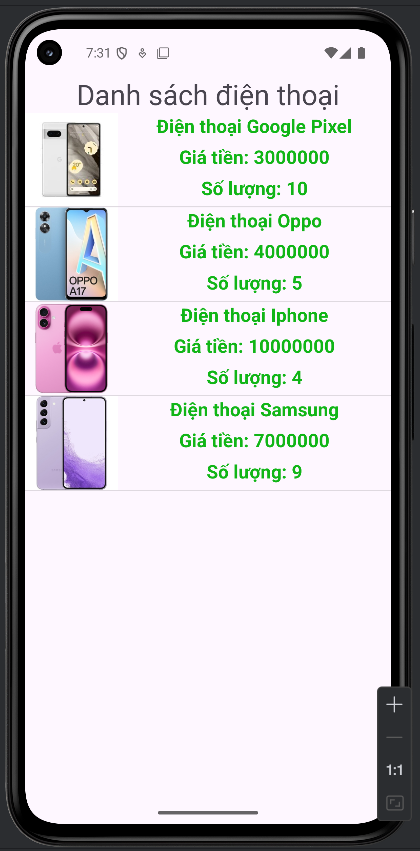
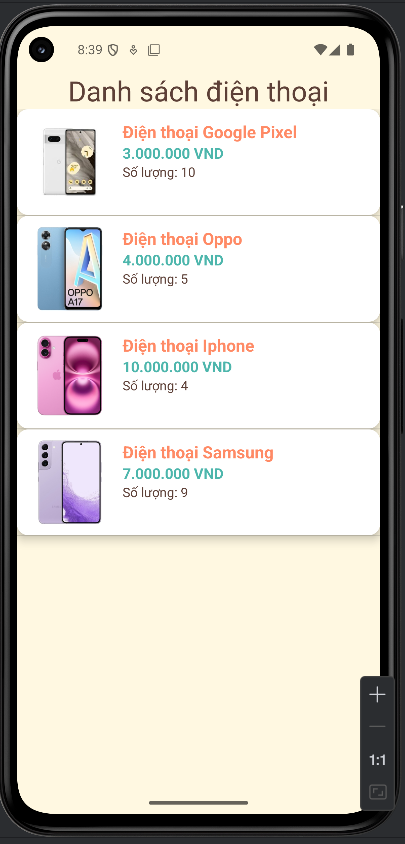
Hoàn thành lv nâng cao

diff --git a/LT9_LVNangCao/app/src/main/java/com/example/lt9_lvnangcao/MainActivity.java b/LT9_LVNangCao/app/src/main/java/com/example/lt9_lvnangcao/MainActivity.java
@@ -1,6 +1,9 @@
 package com.example.lt9_lvnangcao;
 
+import android.content.Intent;
 import android.os.Bundle;
+import android.view.View;
+import android.widget.AdapterView;
 import android.widget.ListView;
 
 import androidx.activity.EdgeToEdge;
@@ -9,7 +12,9 @@ import androidx.core.graphics.Insets;
 import androidx.core.view.ViewCompat;
 import androidx.core.view.WindowInsetsCompat;
 
+import java.text.NumberFormat;
 import java.util.ArrayList;
+import java.util.Locale;
 
 public class MainActivity extends AppCompatActivity {
     int img[] = {R.drawable.googlepixel, R.drawable.oppo, R.drawable.iphone,R.drawable.samsung};
@@ -36,11 +41,29 @@ public class MainActivity extends AppCompatActivity {
         //Ép 4 mảng con vào 1 mảng chính
         for (int i = 0 ; i < name.length; i++)
         {
+            String formattedPrice = formatCurrency(price[i]);
             //Thêm phần tử vào mảng dựa trên các phần tử trong mảng con
             list.add(new Phone(img[i], name[i], price[i], quantity[i]));
         }
         //Tạo mới adapter bằng cách đưa các tham số lần lượt: activity -> layout -> list data
         myArrayAdapter = new MyArrayAdapter(MainActivity.this,R.layout.item_layout,list);
         lv.setAdapter(myArrayAdapter);
+        lv.setOnItemClickListener(new AdapterView.OnItemClickListener() {
+            @Override
+            public void onItemClick(AdapterView<?> adapterView, View view, int i, long l) {
+                Intent iItem = new Intent(MainActivity.this, SubActivity.class);
+                iItem.putExtra("name",name[i]);
+                iItem.putExtra("img",img[i]);
+                iItem.putExtra("price",price[i]);
+                iItem.putExtra("quantity",quantity[i]);
+                startActivity(iItem);
+            }
+        });
     }
+
+    public static String formatCurrency(int amount) {
+        NumberFormat formatter = NumberFormat.getInstance(new Locale("vi", "VN"));
+        return formatter.format(amount) + " VND";
+    }
+
 }

diff --git a/LT9_LVNangCao/app/src/main/java/com/example/lt9_lvnangcao/SubActivity.java b/LT9_LVNangCao/app/src/main/java/com/example/lt9_lvnangcao/SubActivity.java
@@ -1,6 +1,9 @@
 package com.example.lt9_lvnangcao;
 
+import android.content.Intent;
 import android.os.Bundle;
+import android.widget.ImageView;
+import android.widget.TextView;
 
 import androidx.activity.EdgeToEdge;
 import androidx.appcompat.app.AppCompatActivity;
@@ -8,8 +11,12 @@ import androidx.core.graphics.Insets;
 import androidx.core.view.ViewCompat;
 import androidx.core.view.WindowInsetsCompat;
 
-public class SubActivity extends AppCompatActivity {
+import java.text.NumberFormat;
+import java.util.Locale;
 
+public class SubActivity extends AppCompatActivity {
+    TextView txtTen, txtSubPrice, txtSubQuantity;
+    ImageView imgSubPhone;
     @Override
     protected void onCreate(Bundle savedInstanceState) {
         super.onCreate(savedInstanceState);
@@ -20,5 +27,34 @@ public class SubActivity extends AppCompatActivity {
             v.setPadding(systemBars.left, systemBars.top, systemBars.right, systemBars.bottom);
             return insets;
         });
+        TimView();
+        Intent myItent = getIntent();
+        String name = myItent.getStringExtra("name");
+        txtTen.setText(name);
+        int img = myItent.getIntExtra("img",99);
+        imgSubPhone.setImageResource(img);
+        int price = myItent.getIntExtra("price",99);
+        String formattedPrice = formatCurrency(price);
+        txtSubPrice.setText("Giá: "+ formattedPrice);
+        int quantity = myItent.getIntExtra("quantity",99);
+        txtSubQuantity.setText("Số lượng: "+ quantity);
+
+
     }
+
+    void TimView()
+    {
+        txtTen = findViewById(R.id.txtTen);
+        txtSubPrice = findViewById(R.id.txtSubPrice);
+        txtSubQuantity = findViewById(R.id.txtSubQuantity);
+        imgSubPhone = findViewById(R.id.imgSubPhone);
+
+    }
+
+    public static String formatCurrency(int amount) {
+        NumberFormat formatter = NumberFormat.getInstance(new Locale("vi", "VN"));
+        return formatter.format(amount) + " VND";
+    }
+
+
 }

diff --git a/LT9_LVNangCao/app/src/main/java/com/example/lt9_lvnangcao/MyArrayAdapter.java b/LT9_LVNangCao/app/src/main/java/com/example/lt9_lvnangcao/MyArrayAdapter.java
@@ -12,8 +12,10 @@ import android.widget.TextView;
 import androidx.annotation.NonNull;
 import androidx.annotation.Nullable;
 
+import java.text.NumberFormat;
 import java.util.ArrayList;
 import java.util.List;
+import java.util.Locale;
 
 public class MyArrayAdapter extends ArrayAdapter<Phone> {
     Activity context;
@@ -47,9 +49,16 @@ public class MyArrayAdapter extends ArrayAdapter<Phone> {
         TextView txtName = convertView.findViewById(R.id.txtName);
         txtName.setText(myPhone.getName());
         TextView txtPrice = convertView.findViewById(R.id.txtPrice);
-        txtPrice.setText("Giá tiền: " + myPhone.getGiaTien());
+        String formattedPrice = formatCurrency(myPhone.getGiaTien());
+        txtPrice.setText(formattedPrice);
         TextView txtQuantity = convertView.findViewById(R.id.txtQuantity);
         txtQuantity.setText("Số lượng: "+myPhone.getSoLuong());
         return convertView;
     }
+
+    public static String formatCurrency(int amount) {
+        NumberFormat formatter = NumberFormat.getInstance(new Locale("vi", "VN"));
+        return formatter.format(amount) + " VND";
+    }
+
 }

diff --git a/README.md b/README.md
@@ -108,11 +108,20 @@ Dưới đây là danh sách các bài tập thực hành kèm theo hình ảnh 
 ## CÁC BÀI TẬP LÀM THÊM
 Dưới đây là danh sách các bài tập làm thêm kèm theo hình ảnh minh họa:
 ### 🔹 LT9_LVNangCao
+- Tạo class riêng chứa dữ liệu và adapter riêng để truyền dữ liệu lên layout
+- Dùng CardView bọc lấy item để có bo viền và bóng mờ
+- Sử dụng lớp NumberFormat có sẵn để định dạng giá tiền (xxx.xxx.xxx VND)
+- Bộ màu sử dụng:
+  🔹 Màu chính (Primary): #FF8A65 (Cam pastel)
+  🔹 Màu phụ (Accent): #4DB6AC (Xanh mint)
+  🔹 Màu nền (Background): #FFF8E1 (Vàng kem)
+  🔹 Màu chữ (Text): #5D4037 (Nâu đậm)
 - 📂 [Xem mã nguồn](./LT9_LVNangCao/app/src/main/)
 - Hình ảnh minh họa:
 
 <div style="display: flex; justify-content: center; gap: 10px;">
   <img src="./LT9_LVNangCao/KetQua1.PNG" alt="Ex7_IntentLogin2" width="30%"/>
+  <img src="./LT9_LVNangCao/KetQua2.PNG" alt="Ex7_IntentLogin2" width="30%"/>
 </div>
 
 
